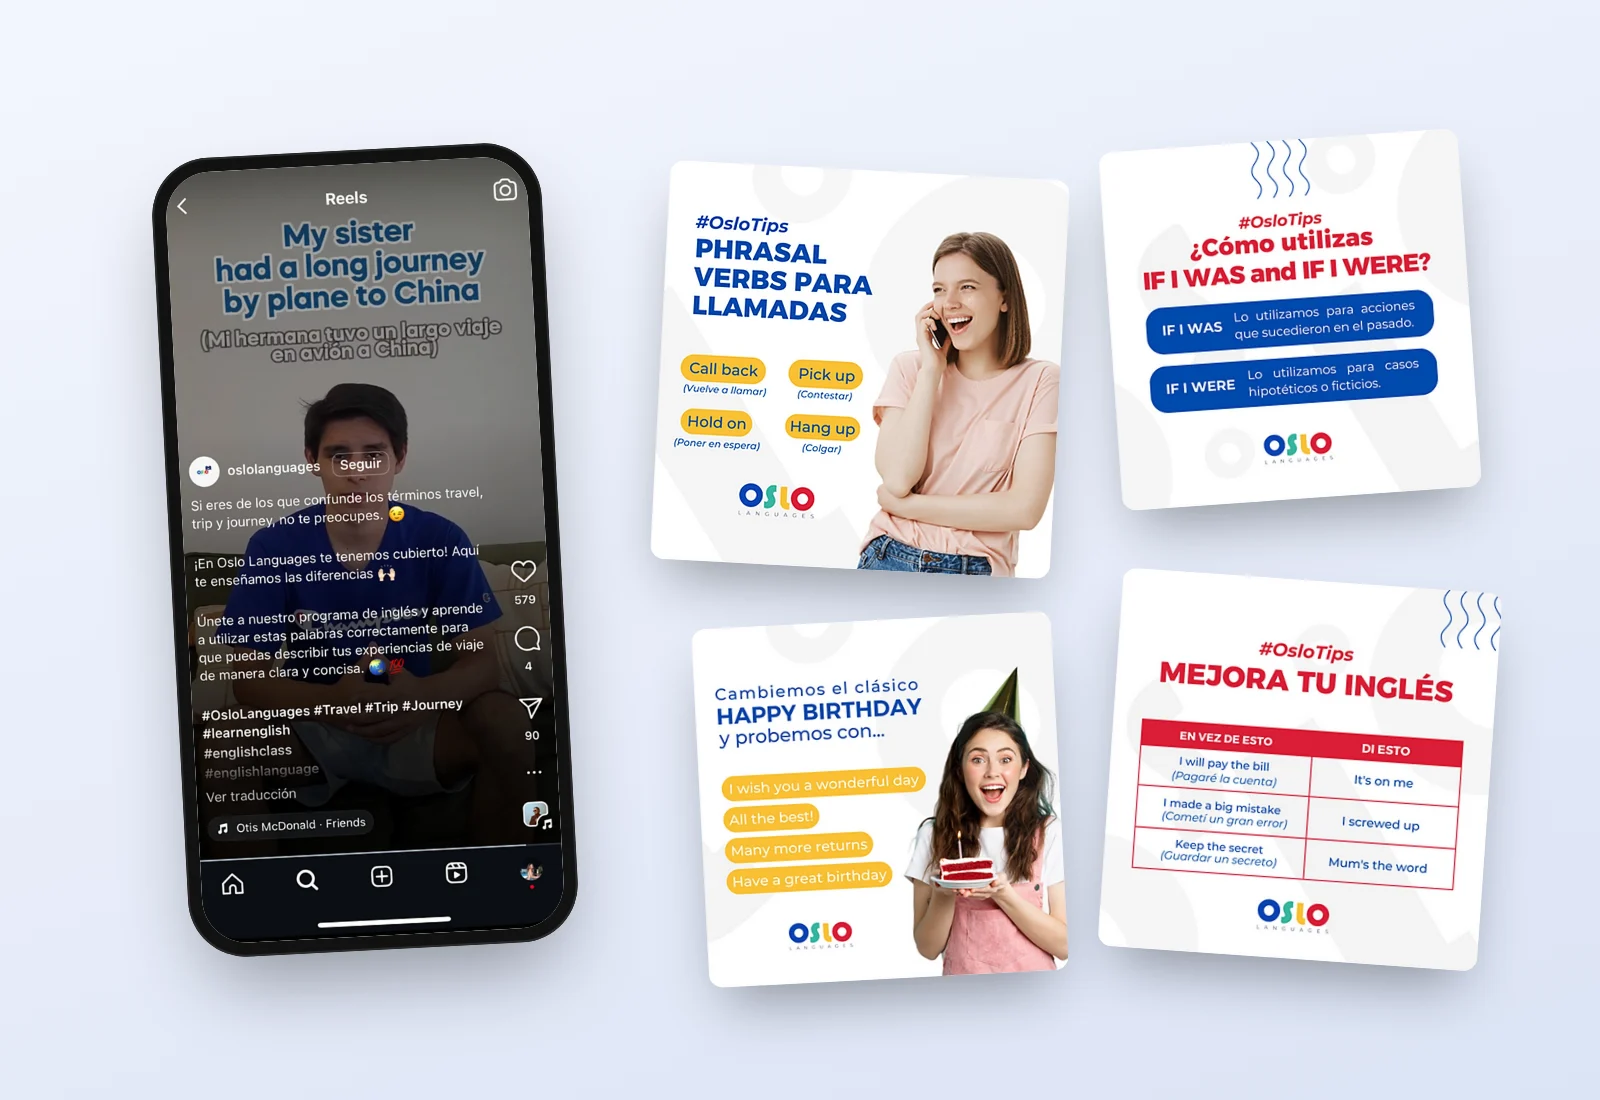
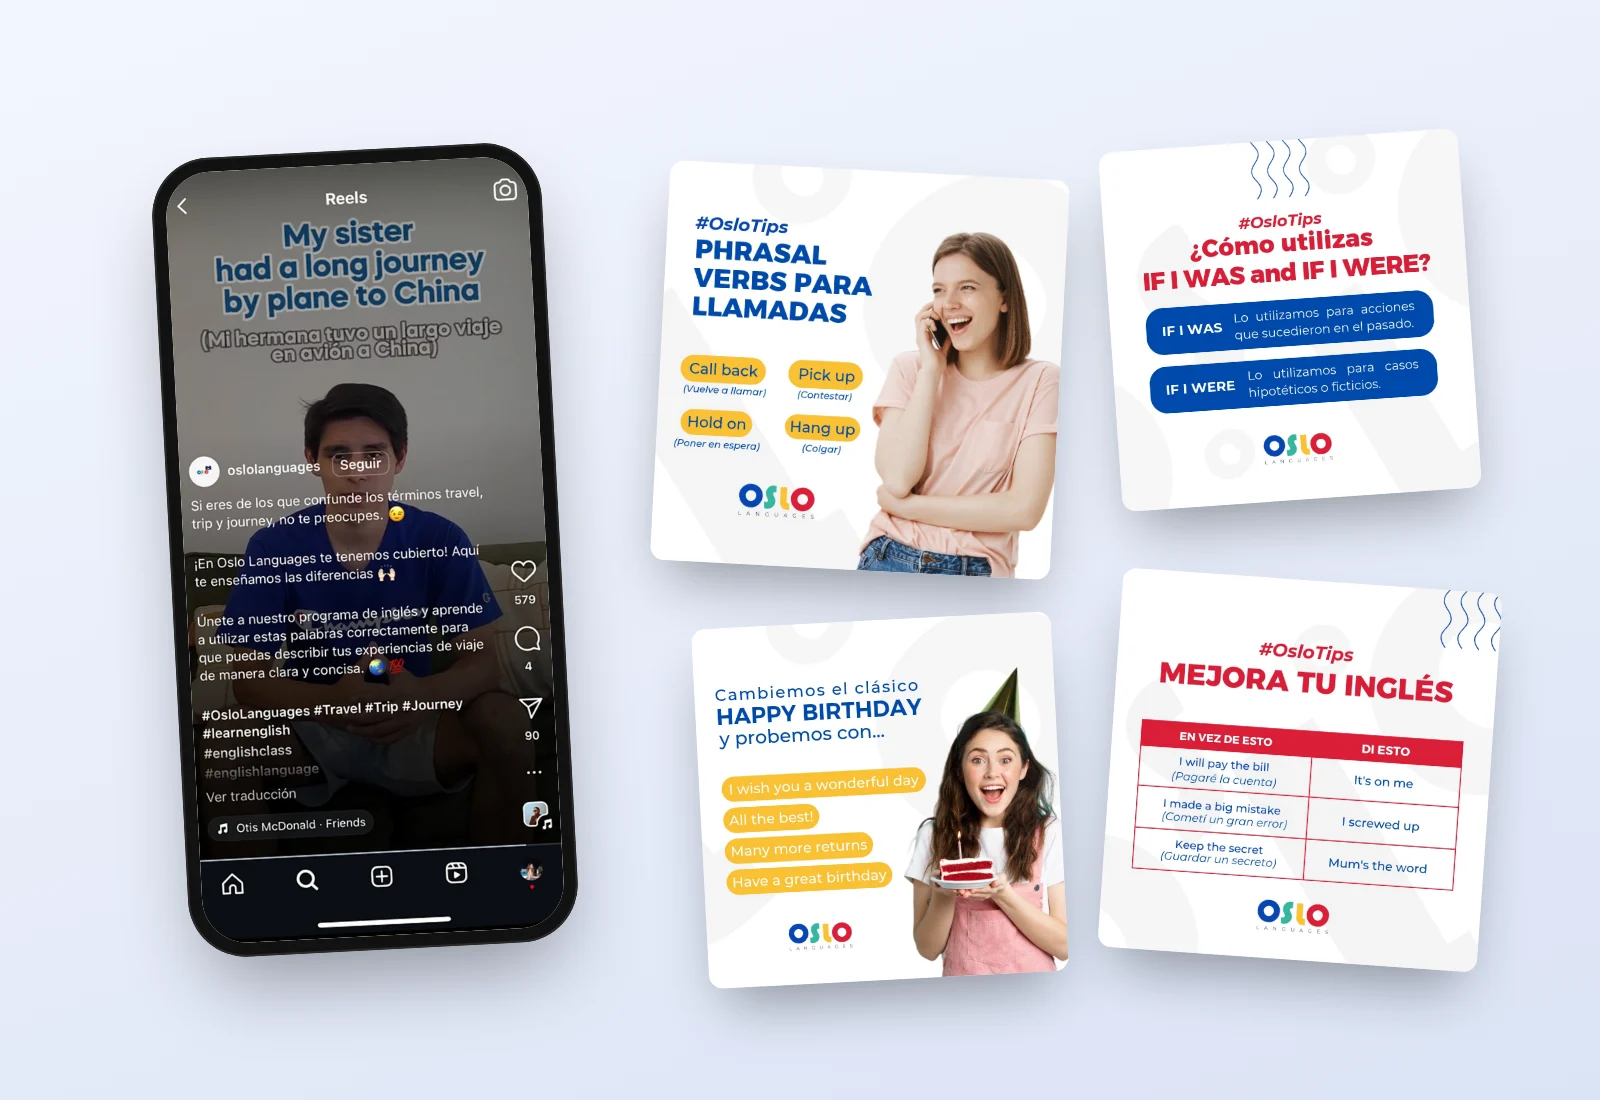
Oslo en alta, Impulsa (Chio Lecca) y PRSSA USMP

diff --git a/index.html b/index.html
@@ -488,13 +488,13 @@ const AREAS = [
   {id: "contenido", nombre: "Contenido y redes", carpeta: "contenido_y_redes", desc: "Estrategia, piezas y copys para redes sociales.",
     proyectos: ["enter-redes", "enterx-redes", "cetemin-training", "marcas-locales", "moda"]},
   {id: "eventos", nombre: "Eventos y comunidad", carpeta: "eventos", desc: "Ferias, workshops y espacios para la comunidad.",
-    proyectos: ["pbf", "workshop", "comunidad", "anda"]},
+    proyectos: ["pbf", "workshop", "comunidad", "impulsa", "anda"]},
   {id: "web", nombre: "Web y producto", carpeta: "web_y_producto", desc: "Webs y landings pensadas para convertir.",
     proyectos: ["enterx-web", "move", "axel", "direccion-web"]},
   {id: "ia", nombre: "IA y automatización", carpeta: "ia", desc: "Sistemas que ordenan el trabajo del equipo.",
     proyectos: ["aitana", "benefits", "copiloto"]},
   {id: "interna", nombre: "Comunicación interna y PR", carpeta: "comunicacion_interna", desc: "Manuales, cultura y relación con stakeholders.",
-    proyectos: ["cetemin-interna", "inclusiva", "cultura"]}
+    proyectos: ["cetemin-interna", "prssa", "inclusiva", "cultura"]}
 ];
 
 const P = {
@@ -546,7 +546,7 @@ const P = {
       ["Dirección Estratégica", "Prácticas", "Consultora de talento: contenido para redes, copys y email marketing en Mailchimp.", ["img/direccion/feed.webp", "img/direccion/copys.webp", "img/direccion/piezas.webp", "img/direccion/mailing.webp"]],
       ["Alexander Construye", "Freelance", "Inmobiliaria: contenido y copys para redes sociales.", ["img/alexander/feed.webp", "img/alexander/copys.webp", "img/alexander/piezas.webp"]],
       ["La Badiane", "Freelance", "Cafetería: reels, stories y posts.", ["img/badiane/feed.webp", "img/badiane/reels.webp"]],
-      ["Oslo Languages", "Freelance", "Academia de idiomas: estrategia digital, concepto creativo y posts.", ["img/oslo/feed.webp", "img/oslo/reels.webp"]]
+      ["Oslo Languages", "Freelance", "Academia de idiomas: estrategia digital, concepto creativo y posts.", ["img/oslo/feed.webp", "img/oslo/carruseles.webp", "img/oslo/reels.webp"]]
     ]},
   "cetemin-training": {titulo: "Lanzamiento de CETEMIN Training", marca: "CETEMIN Training", tipo: "Trabajo", anio: "2026",
     portada: "img/cetemin/training-lanzamiento.webp",
@@ -579,6 +579,12 @@ const P = {
     resumen: "Espacios gratuitos para acercar a la comunidad antes de cualquier venta.",
     hice: ["Una identidad propia para cada formato: OpenLabs para talleres prácticos y OpenTalks para charlas de IA aplicada al trabajo.", "Comunicación, recordatorios y distribución de grabaciones por WhatsApp y YouTube."],
     imgs: [["img/enterx/opentalks.webp", "OpenTalks"], ["img/enterx/openlabs-logo.webp", "OpenLabs"], ["img/casos/openlabs.webp", "OpenLabs: dashboard con IA"], ["img/enterx/openlabs-02.webp", "OpenLabs #02"]]},
+  "impulsa": {titulo: "Impulsa: tour de conferencias por regiones", marca: "Chio Lecca Fashion School", tipo: "Trabajo", anio: "2024",
+    portada: "img/chiolecca/impulsa.webp",
+    resumen: "Campaña de expectativa y volante para las conferencias gratuitas de Rocío Lecca en Loreto, Cajamarca y Cusco.",
+    reto: "Anunciar en cada región la llegada de una conferencia gratuita para diseñadores, confeccionistas, empresarios y emprendedores, y lograr inscripciones.",
+    hice: ["Campaña de expectativa en redes: «Algo grande está llegando a…» para Loreto, Cajamarca y Cusco.", "Volante del evento en Cusco, con la Municipalidad Provincial del Cusco como aliada: fecha, sede, ponente e inscripción por QR."],
+    imgs: [["img/chiolecca/impulsa.webp", "Volante de Impulsa Cusco"], ["img/chiolecca/tour.webp", "Campaña de expectativa por región"]]},
   "anda": {titulo: "Premios ANDA 2024: cobertura en vivo", marca: "ANDA Perú", tipo: "Freelance", anio: "2024",
     portada: "img/anda/premios.webp",
     resumen: "Piezas, foto, video y cobertura en vivo de la premiación.",
@@ -634,6 +640,11 @@ const P = {
     reto: "Enter Tech School trabaja de la mano con CETEMIN. Su equipo académico tenía un retiro de dos días y necesitaba comunicarlo de forma cercana y clara.",
     hice: ["Apoyé al equipo interno de CETEMIN con grabación y creación de contenido.", "Diseñé la serie del Retiro Académico: convocatoria, checklist de qué llevar, agenda de ambos días y la portada de «CETEMIN 4.0: Estrategia de crecimiento».", "Usé a la mascota de la marca para darle un tono cercano y divertido."],
     imgs: [["img/cetemin/cetemin-40.webp", "Portada: CETEMIN 4.0"], ["img/cetemin/retiro-1.webp", "Convocatoria al Retiro Académico"], ["img/cetemin/retiro-checklist.webp", "Checklist: qué llevar"], ["img/cetemin/retiro-agenda-1.webp", "Agenda del primer día"], ["img/cetemin/retiro-agenda-2.webp", "Agenda del segundo día"], ["img/cetemin/retiro-academico.webp", "Diseñando en Canva"]]},
+  "prssa": {titulo: "Contenido para PRSSA USMP", marca: "PRSSA USMP", tipo: "Prácticas", anio: "",
+    portada: "img/prssa/premios.webp",
+    resumen: "Piezas para comunicar los logros del capítulo de estudiantes de relaciones públicas de la USMP.",
+    hice: ["Diseñé y redacté la serie «PRSSA: premios y logros», sobre los Star Chapter Awards 2017 y 2021 que PRSSA National otorgó al capítulo."],
+    imgs: [["img/prssa/premios.webp", "PRSSA: premios y logros"]]},
   "inclusiva": {titulo: "Manual de comunicación inclusiva", marca: "Innova Schools · FIRMA PR", tipo: "Prácticas preprofesionales", anio: "2020",
     portada: "img/innova/inclusiva.webp",
     resumen: "Guía para adoptar un lenguaje respetuoso y equitativo.",
